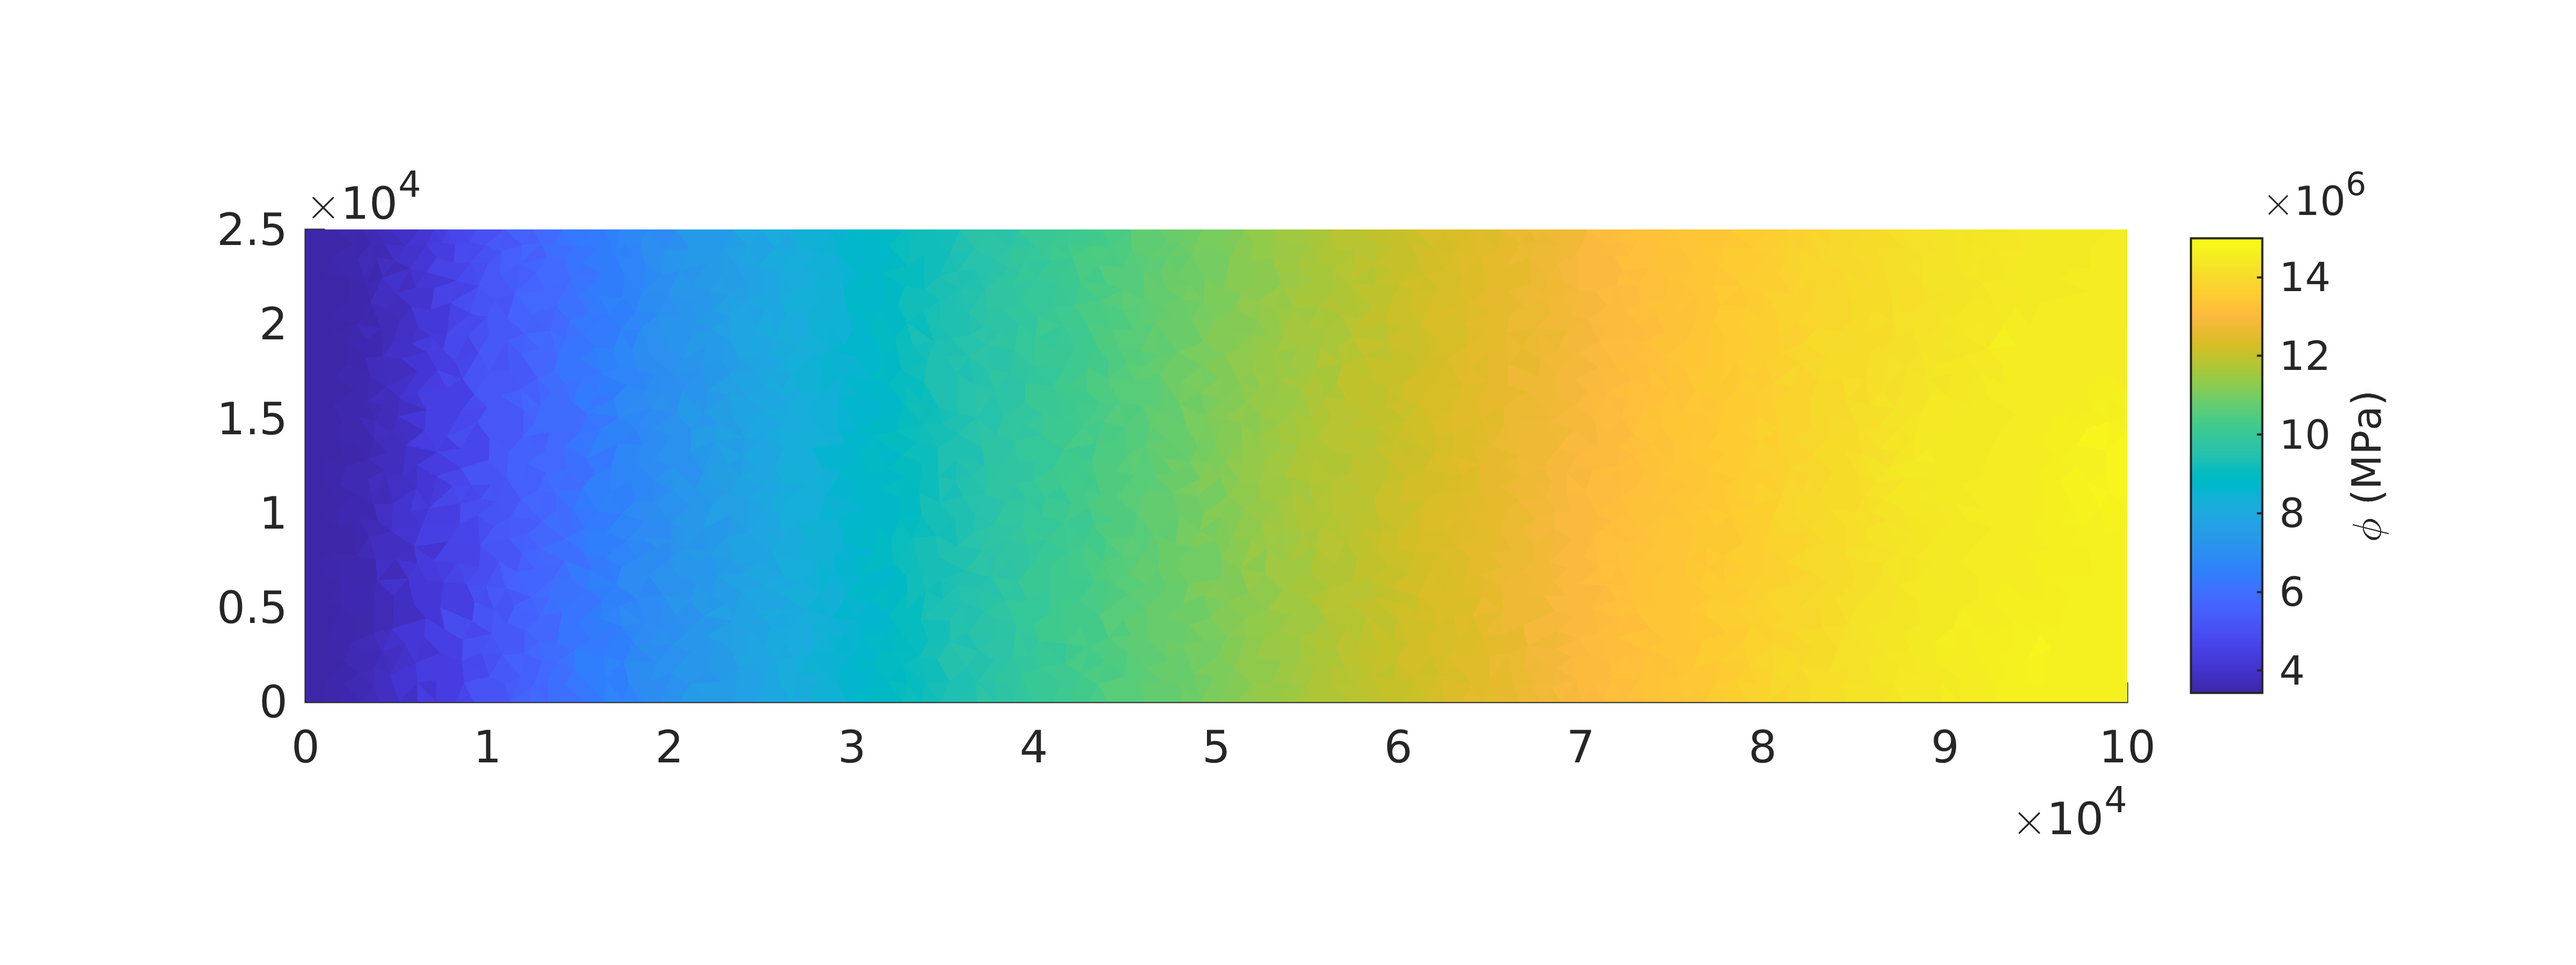
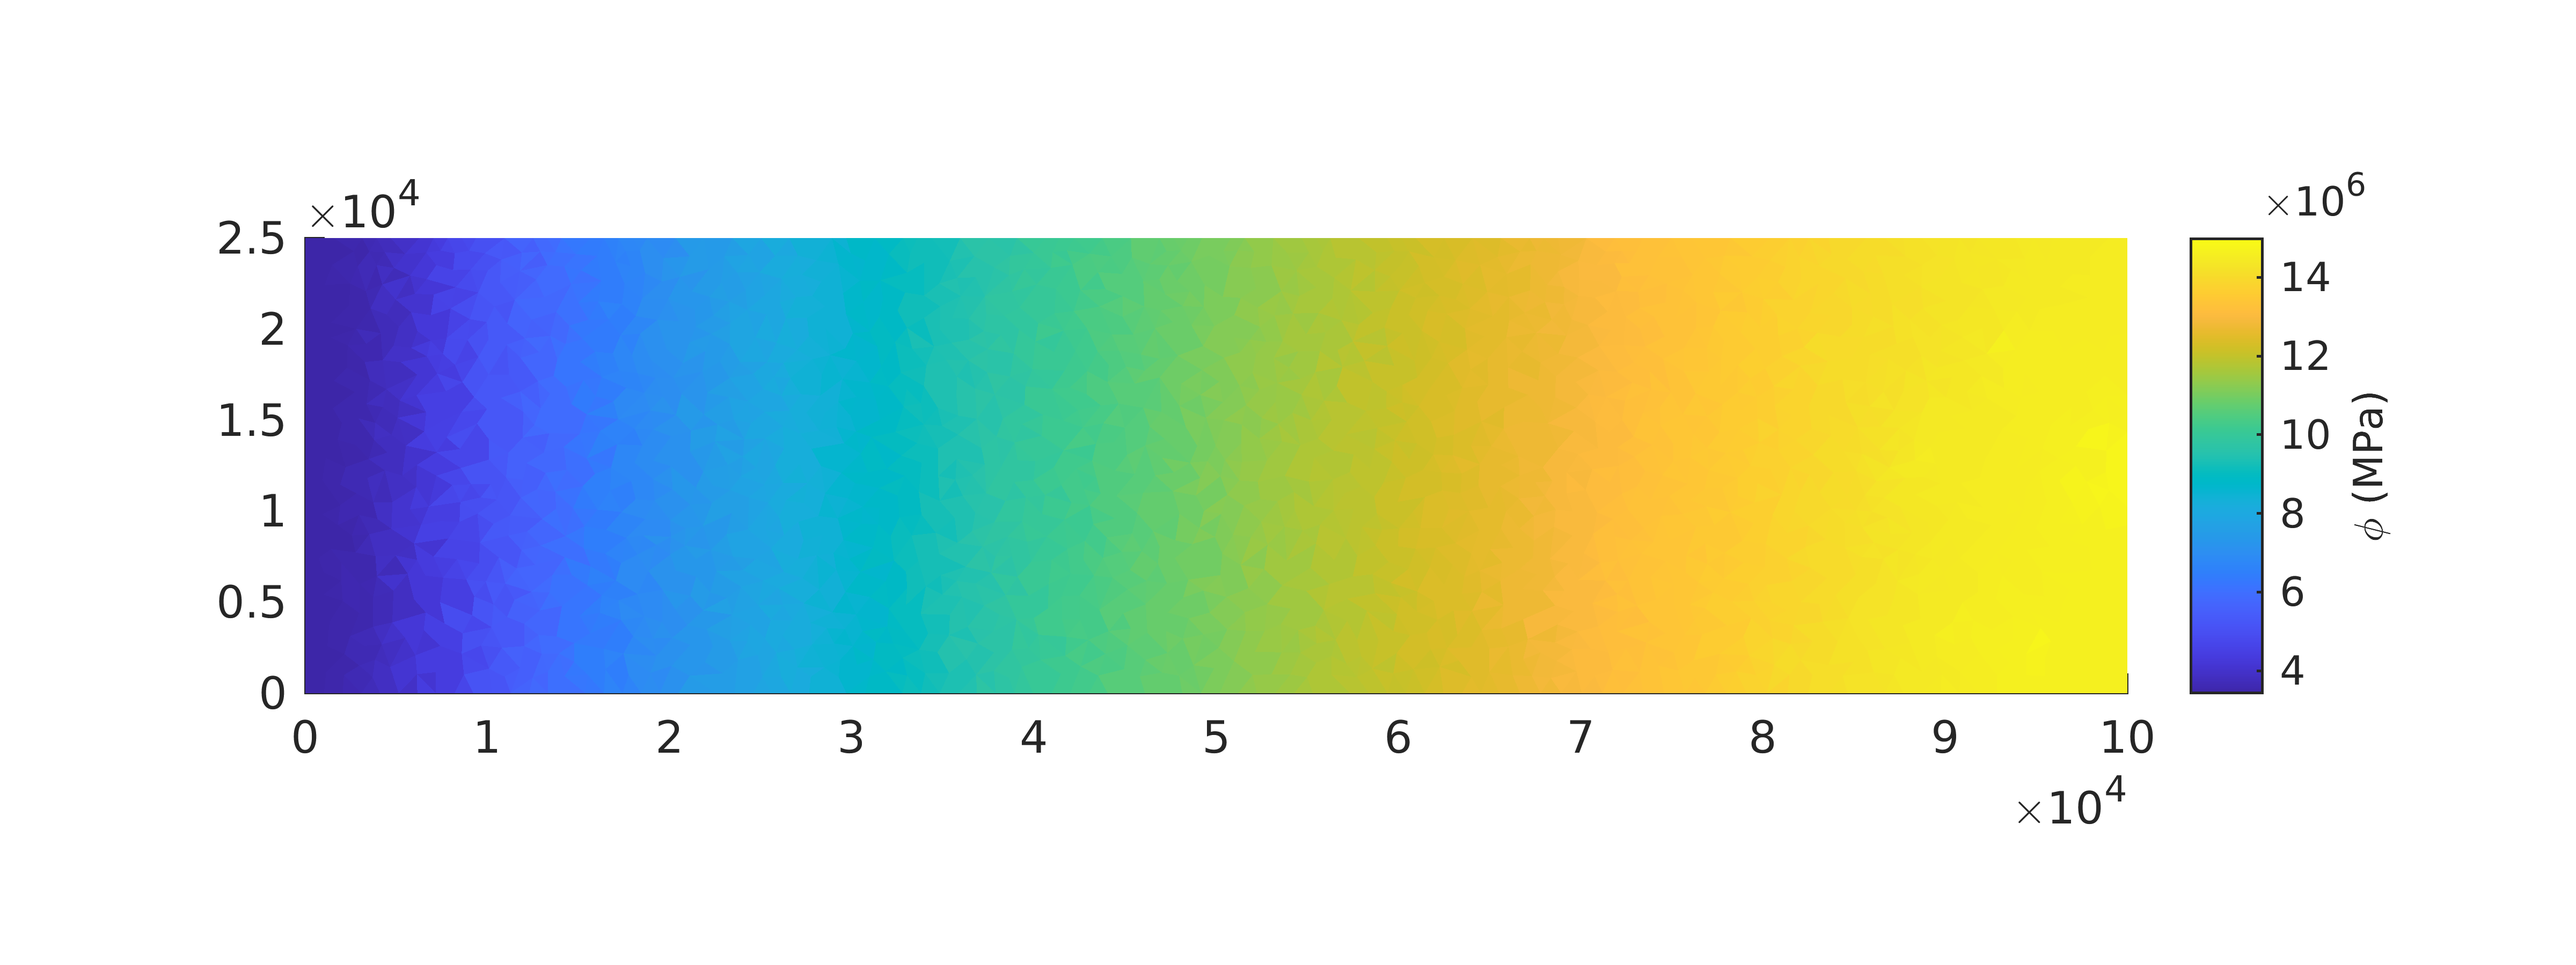
Scaling tests

diff --git a/src/matlab_noscaling/plot_outs.m b/src/matlab_noscaling/plot_outs.m
@@ -1,17 +1,18 @@
-outs = load('RUN/seasonal_001.mat');
+outs = load('RUN/seasonal_001_norho.mat');
 
 dmesh = load('../data/mesh.mat');
 
 tindex = 170;
-figure('Units', 'inches', 'Position', [3, 2, 8, 3])
+f = figure('Units', 'inches', 'Position', [3, 2, 8, 3]);
 patch('Faces', dmesh.tri.connect, 'Vertices', dmesh.tri.nodes, ...
     'FaceVertexCData', outs.phis(:, tindex), 'EdgeColor', 'none', ...
     'FaceColor', 'flat');
 axis image
 cb = colorbar;
 cb.Label.String = '\phi (MPa)';
-print('phi_statevariables', '-dpng', '-r600')
-% 
-% figure
-% plot(mean(outs.phis))
-% cmocean('dense')
+print(f, 'phi_norho', '-dpng', '-r600')
+
+f2 = figure;
+plot(mean(outs.phis))
+cmocean('dense')
+print(f2, 'phi_norho_time', '-dpng', '-r600')

diff --git a/src/matlab_noscaling/run_suite.m b/src/matlab_noscaling/run_suite.m
@@ -1,4 +1,4 @@
-job_arr = { {'seasonal_001.mat', 0.0095, 5./4., 3./2., 0,      0.1},
+job_arr = { {'seasonal_001_norho.mat', 0.0095, 5./4., 3./2., 0,      0.1},
             {'seasonal_002.mat', 0.0189, 3./2., 3./2., 0,      0.1},
             {'seasonal_003.mat', 0.1,    3.0,   2.0,   0,      0.1},
             {'seasonal_004.mat', 0.1,    5./4., 3./2., 1/2000, 0.1},
